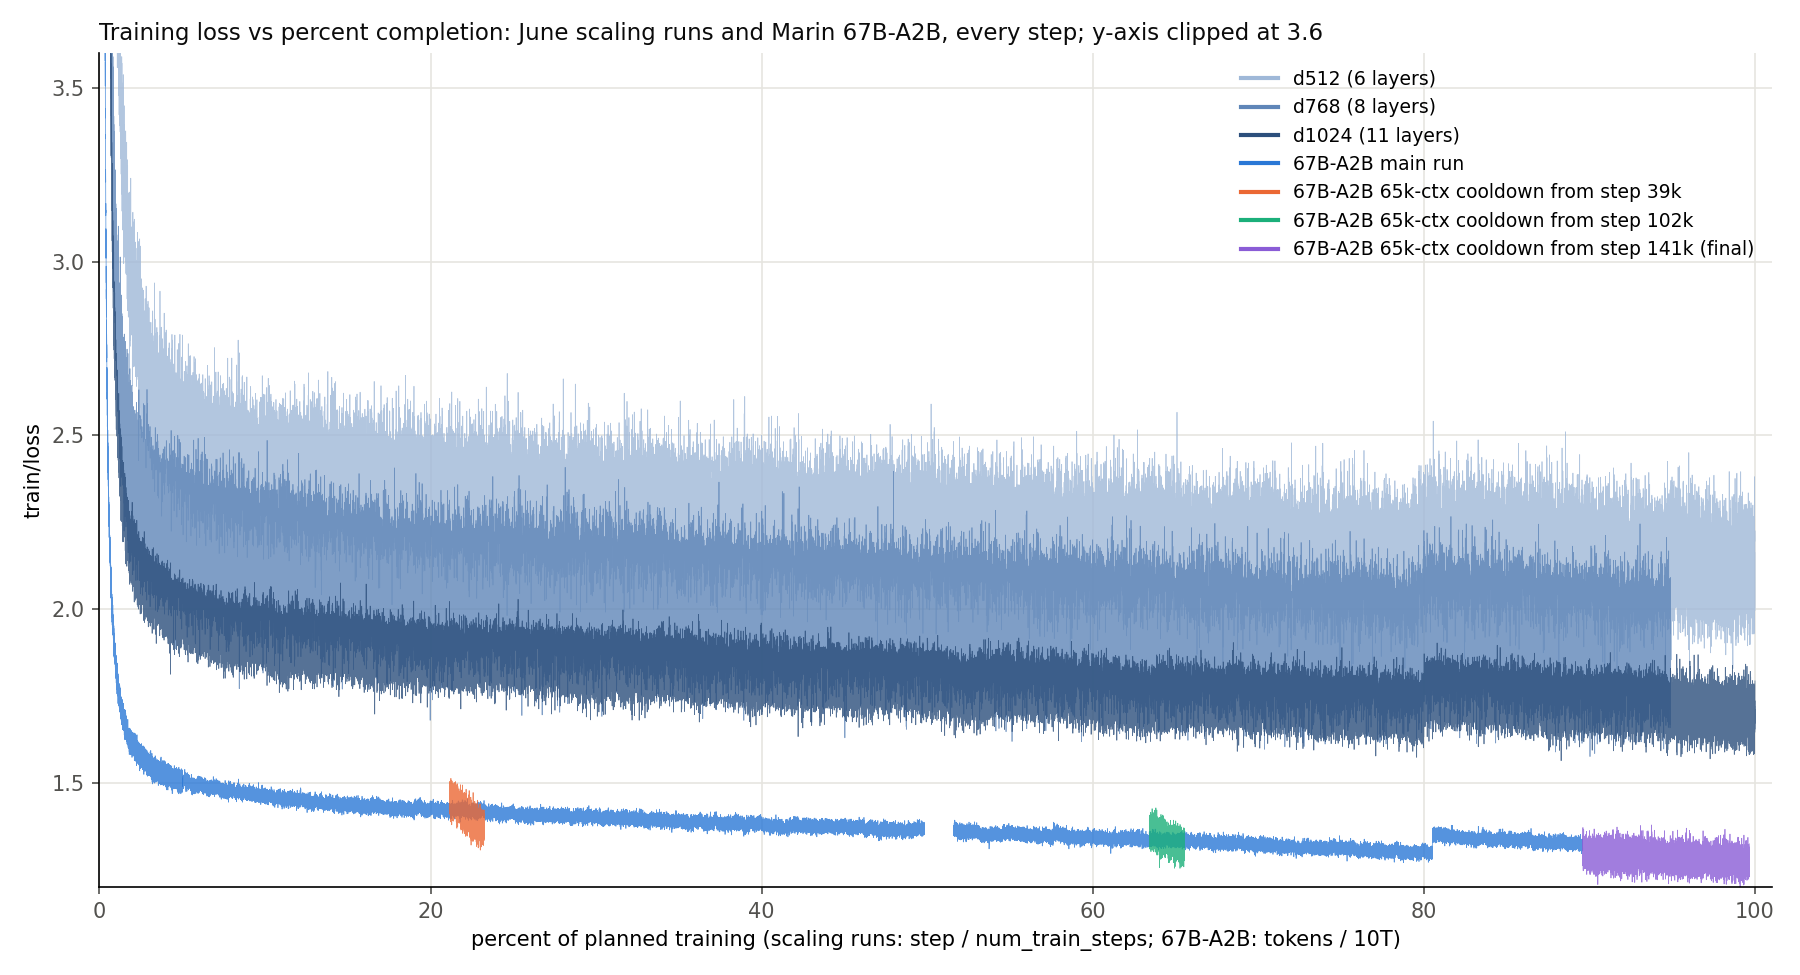
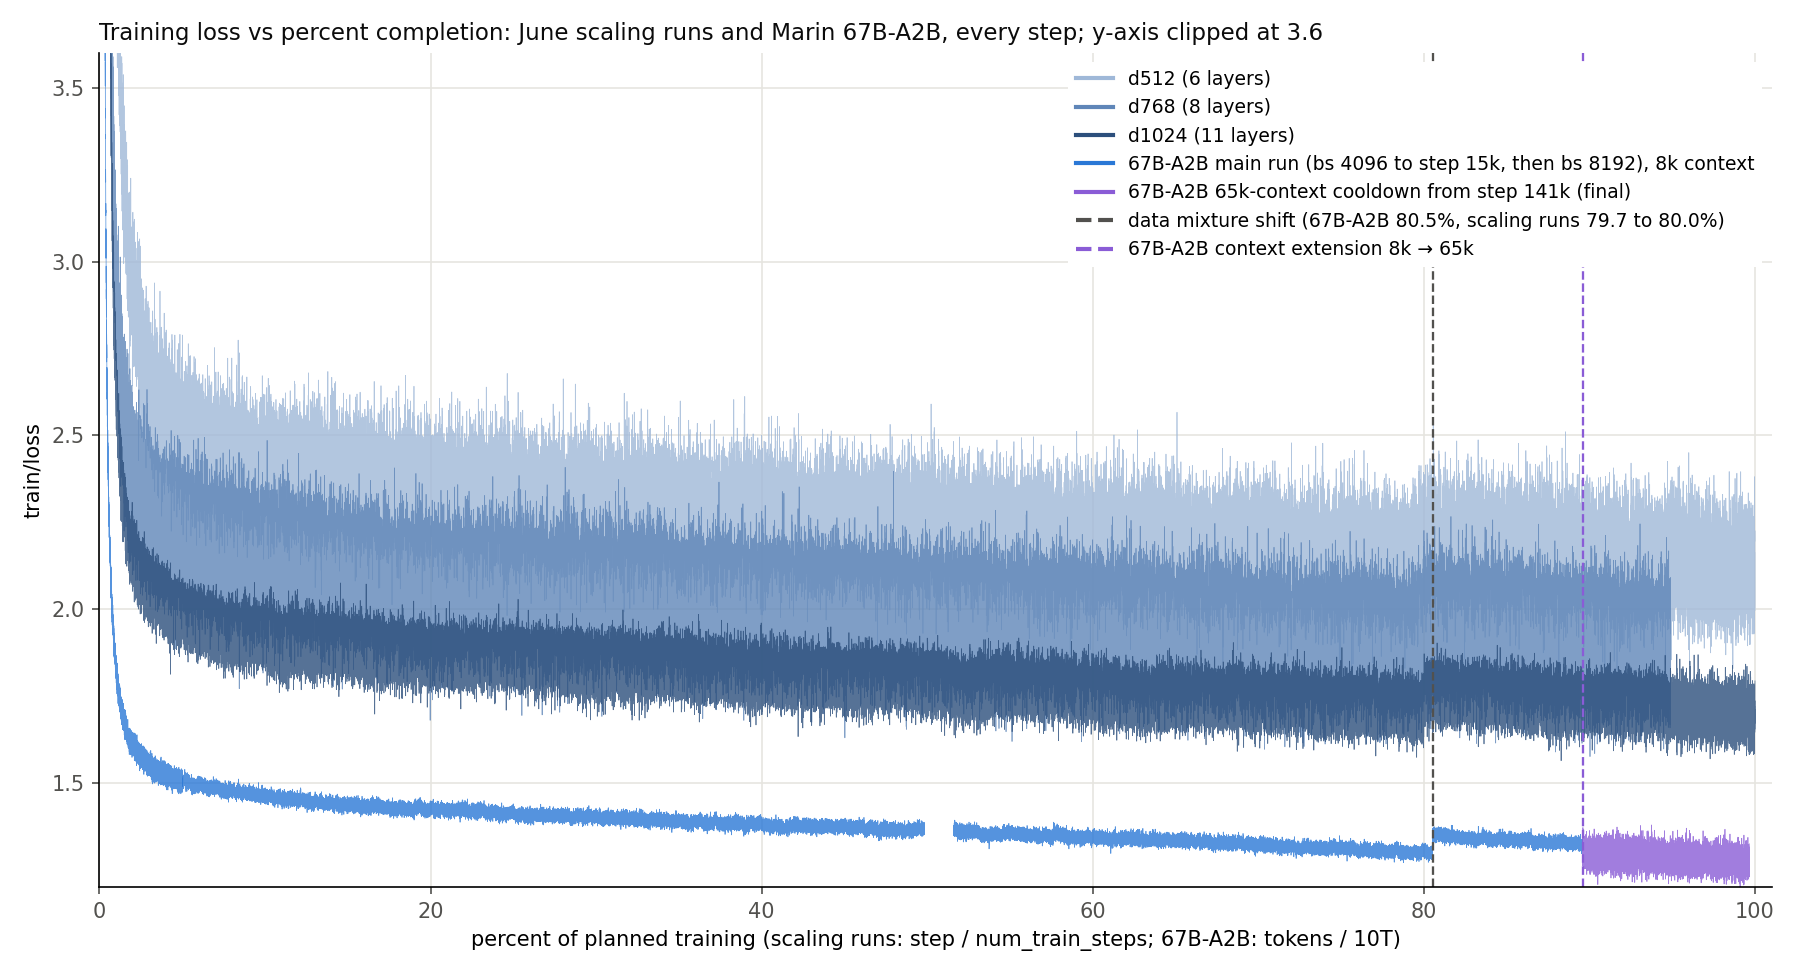
grug 67B-A2B loss plots: drop early cooldowns, mark mixture shift and context extension
Keeps only the final step-141k 65k-context cooldown and draws dashed vertical
lines at the scheduled data-mixture change (second train_weights stage, read
from the W&B config) and at the 8k to 65k context extension.

Changed region(s): [[0.5911, 0.0615, 0.9956, 0.2769], [0.6222, 0.8308, 0.6844, 0.8923], [0.2489, 0.8, 0.28, 0.8615]]

diff --git a/experiments/grug/moe/plot_67b_a2b_training_loss.py b/experiments/grug/moe/plot_67b_a2b_training_loss.py
@@ -6,14 +6,15 @@
 Writes two figures:
 
 - ``<out_dir>/67b_a2b_train_loss_tokens.png``: the 67B-A2B lineage (4096-batch start, 8192-batch resume, and the
-  three 65k-context cooldowns) against tokens seen.
+  final 65k-context cooldown from step 141k) against tokens seen.
 - ``<out_dir>/67b_a2b_train_loss_vs_scaling_completion.png``: the same lineage plus the d512/d768/d1024 scaling runs
   from the issue #6044 scaling fit, against percent of each run's planned training.
 
-Every logged step is plotted. The W&B API returns at most 10,000 history rows per query, so history is fetched in
-step ranges of ``_HISTORY_CHUNK``. Tokens per step are ``train_batch_size * max_seq_len`` from each run's W&B config
-(``train_batch_size`` may be a staged schedule), accumulated along the lineage: each run continues from its parent's
-token count at the step where it starts.
+Dashed vertical lines mark each run's scheduled data-mixture change (second ``train_weights`` stage) and the
+67B-A2B context extension from 8k to 65k. Every logged step is plotted. The W&B API returns at most 10,000 history
+rows per query, so history is fetched in step ranges of ``_HISTORY_CHUNK``. Tokens per step are
+``train_batch_size * max_seq_len`` from each run's W&B config (``train_batch_size`` may be a staged schedule),
+accumulated along the lineage: each run continues from its parent's token count at the step where it starts.
 
 Run::
 
@@ -49,34 +50,14 @@ class Segment:
     end_step: int | None = None
 
 
+_MAIN_BS4096 = "moe_67b_a2b_d2560_ep1_rep16_bs4096_seq8192_sw2k_v4_2048_muon_10T"
+_MAIN_BS8192 = "moe_67b_a2b_d2560_ep1_rep8_bs8192_seq8192_sw2k_v4_2048_muon_resume15k_v2_10T"
+_FINAL_COOLDOWN = "moe_67b_a2b_d2560_ep1_rep8_bs1024_seq65536_sw2k_v4_2048_muon_cooldown_step141k"
+MAIN_COLOR, LONG_CONTEXT_COLOR, EVENT_COLOR = "#2a78d6", "#8a5cd6", "#52514e"
 LINEAGE = (
-    Segment(
-        "moe_67b_a2b_d2560_ep1_rep16_bs4096_seq8192_sw2k_v4_2048_muon_10T", "main, bs 4096", "#2a78d6", None, 15_000
-    ),
-    Segment(
-        "moe_67b_a2b_d2560_ep1_rep8_bs8192_seq8192_sw2k_v4_2048_muon_resume15k_v2_10T",
-        "main, bs 8192 (from step 15k)",
-        "#2a78d6",
-        "moe_67b_a2b_d2560_ep1_rep16_bs4096_seq8192_sw2k_v4_2048_muon_10T",
-    ),
-    Segment(
-        "moe_67b_a2b_d2560_ep1_rep8_bs1024_seq65536_sw2k_v4_2048_muon_cooldown_step39k",
-        "65k-ctx cooldown from step 39k",
-        "#eb6834",
-        "moe_67b_a2b_d2560_ep1_rep8_bs8192_seq8192_sw2k_v4_2048_muon_resume15k_v2_10T",
-    ),
-    Segment(
-        "moe_67b_a2b_d2560_ep1_rep8_bs1024_seq65536_sw2k_v4_2048_muon_cooldown_step102k",
-        "65k-ctx cooldown from step 102k",
-        "#1baf7a",
-        "moe_67b_a2b_d2560_ep1_rep8_bs8192_seq8192_sw2k_v4_2048_muon_resume15k_v2_10T",
-    ),
-    Segment(
-        "moe_67b_a2b_d2560_ep1_rep8_bs1024_seq65536_sw2k_v4_2048_muon_cooldown_step141k",
-        "65k-ctx cooldown from step 141k (final)",
-        "#8a5cd6",
-        "moe_67b_a2b_d2560_ep1_rep8_bs8192_seq8192_sw2k_v4_2048_muon_resume15k_v2_10T",
-    ),
+    Segment(_MAIN_BS4096, "main run (bs 4096 to step 15k, then bs 8192), 8k context", MAIN_COLOR, None, 15_000),
+    Segment(_MAIN_BS8192, "main run, bs 8192", MAIN_COLOR, _MAIN_BS4096, 141_000),
+    Segment(_FINAL_COOLDOWN, "65k-context cooldown from step 141k (final)", LONG_CONTEXT_COLOR, _MAIN_BS8192),
 )
 # (run id, label, color) for the scaling-fit anchors in
 # https://github.com/marin-community/marin/issues/6044#issuecomment-4819900707
@@ -88,6 +69,15 @@ SCALING_RUNS = (
 # (steps, x values, losses) for one plotted run.
 Curve = tuple[np.ndarray, np.ndarray, np.ndarray]
 INK, MUTED, GRID = "#0b0b0b", "#52514e", "#e6e5e0"
+
+
+@dataclass(frozen=True)
+class Event:
+    """A vertical dashed marker at a point in training, in the x units of the plot it is drawn on."""
+
+    x: float
+    label: str
+    color: str
 
 
 def loss_history(run: wandb.apis.public.Run) -> tuple[np.ndarray, np.ndarray]:
@@ -142,6 +132,28 @@ def lineage_tokens(api: wandb.Api) -> dict[str, Curve]:
     return out
 
 
+def mix_shift_step(run: wandb.apis.public.Run) -> int:
+    """First step of the second ``train_weights`` stage (the scheduled data-mixture change)."""
+    stages = run.config["data"]["train_weights"]
+    assert len(stages) == 2, f"{run.id}: expected two mixture stages, got {[start for start, _ in stages]}"
+    return stages[1][0]
+
+
+def lineage_events(api: wandb.Api, lineage: dict[str, Curve]) -> tuple[float, float]:
+    """Tokens seen at the 67B-A2B data-mixture change and at the start of the 65k-context cooldown."""
+    steps, tokens, _ = lineage[_MAIN_BS8192]
+    mix_tokens = float(np.interp(mix_shift_step(api.run(f"{WANDB_PROJECT}/{_MAIN_BS8192}")), steps, tokens))
+    _, cooldown_tokens, _ = lineage[_FINAL_COOLDOWN]
+    # Tokens seen before the first cooldown step: the cumulative count minus that step's own batch.
+    context_tokens = float(cooldown_tokens[0] - (cooldown_tokens[1] - cooldown_tokens[0]))
+    return mix_tokens, context_tokens
+
+
+def _draw_events(ax: plt.Axes, events: list[Event]) -> None:
+    for event in events:
+        ax.axvline(event.x, color=event.color, linestyle="--", linewidth=1.1, label=event.label)
+
+
 def _break_gaps(steps: np.ndarray, x: np.ndarray, loss: np.ndarray) -> tuple[np.ndarray, np.ndarray]:
     """Insert NaN after each logging gap longer than ``_MAX_STEP_GAP`` steps so the line is not drawn across it."""
     cut = np.flatnonzero(np.diff(steps) > _MAX_STEP_GAP) + 1
@@ -156,11 +168,11 @@ def _style(ax: plt.Axes) -> None:
     ax.tick_params(colors=MUTED)
 
 
-def plot_tokens(lineage: dict[str, Curve], path: str) -> None:
+def plot_tokens(lineage: dict[str, Curve], events: tuple[float, float], path: str) -> None:
     fig, ax = plt.subplots(figsize=(12, 6.5))
     for seg in LINEAGE:
         steps, tokens, loss = lineage[seg.run_id]
-        label = None if seg.run_id == LINEAGE[0].run_id else seg.label
+        label = None if seg.run_id == _MAIN_BS8192 else seg.label
         ax.plot(
             *_break_gaps(steps, tokens / 1e12, loss),
             color=seg.color,
@@ -169,14 +181,22 @@ def plot_tokens(lineage: dict[str, Curve], path: str) -> None:
             label=label,
             rasterized=True,
         )
+    mix_tokens, context_tokens = events
+    _draw_events(
+        ax,
+        [
+            Event(mix_tokens / 1e12, f"data mixture shift ({mix_tokens / 1e12:.2f}T)", EVENT_COLOR),
+            Event(
+                context_tokens / 1e12, f"context extension 8k → 65k ({context_tokens / 1e12:.2f}T)", LONG_CONTEXT_COLOR
+            ),
+        ],
+    )
     ax.set_xlabel("tokens seen (T)")
     ax.set_ylabel(LOSS_KEY)
     ax.set_ylim(1.2, 2.0)
     ax.set_xlim(0, 10.2)
     _style(ax)
-    handles, labels = ax.get_legend_handles_labels()
-    labels[0] = "main run (bs 4096 to step 15k, then bs 8192)"
-    ax.legend(handles, labels, frameon=False, loc="upper right")
+    ax.legend(loc="upper right", facecolor="white", edgecolor="none", framealpha=1)
     for line in ax.get_legend().get_lines():
         line.set_linewidth(2)
         line.set_alpha(1)
@@ -190,12 +210,14 @@ def plot_tokens(lineage: dict[str, Curve], path: str) -> None:
     fig.savefig(path, dpi=150, facecolor="white")
 
 
-def plot_completion(api: wandb.Api, lineage: dict[str, Curve], path: str) -> None:
+def plot_completion(api: wandb.Api, lineage: dict[str, Curve], events: tuple[float, float], path: str) -> None:
     fig, ax = plt.subplots(figsize=(12, 6.5))
+    mix_shifts = []
     for run_id, label, color in SCALING_RUNS:
         run = api.run(f"{WANDB_PROJECT}/{run_id}")
         steps, loss = loss_history(run)
         total = run.config["trainer"]["trainer"]["num_train_steps"]
+        mix_shifts.append(100 * mix_shift_step(run) / total)
         ax.plot(
             *_break_gaps(steps, 100 * steps / total, loss),
             color=color,
@@ -206,7 +228,7 @@ def plot_completion(api: wandb.Api, lineage: dict[str, Curve], path: str) -> Non
         )
     for seg in LINEAGE:
         steps, tokens, loss = lineage[seg.run_id]
-        label = None if seg.run_id == LINEAGE[0].run_id else f"67B-A2B {seg.label}"
+        label = None if seg.run_id == _MAIN_BS8192 else f"67B-A2B {seg.label}"
         ax.plot(
             *_break_gaps(steps, 100 * tokens / TARGET_TOKENS, loss),
             color=seg.color,
@@ -215,14 +237,26 @@ def plot_completion(api: wandb.Api, lineage: dict[str, Curve], path: str) -> Non
             label=label,
             rasterized=True,
         )
+    mix_tokens, context_tokens = events
+    _draw_events(
+        ax,
+        [
+            Event(
+                100 * mix_tokens / TARGET_TOKENS,
+                "data mixture shift (67B-A2B "
+                f"{100 * mix_tokens / TARGET_TOKENS:.1f}%, scaling runs "
+                f"{min(mix_shifts):.1f} to {max(mix_shifts):.1f}%)",
+                EVENT_COLOR,
+            ),
+            Event(100 * context_tokens / TARGET_TOKENS, "67B-A2B context extension 8k → 65k", LONG_CONTEXT_COLOR),
+        ],
+    )
     ax.set_xlabel("percent of planned training (scaling runs: step / num_train_steps; 67B-A2B: tokens / 10T)")
     ax.set_ylabel(LOSS_KEY)
     ax.set_ylim(1.2, 3.6)
     ax.set_xlim(0, 101)
     _style(ax)
-    handles, labels = ax.get_legend_handles_labels()
-    labels[len(SCALING_RUNS)] = "67B-A2B main run"
-    ax.legend(handles, labels, frameon=False, loc="upper right", fontsize=9)
+    ax.legend(loc="upper right", fontsize=9, facecolor="white", edgecolor="none", framealpha=1)
     for line in ax.get_legend().get_lines():
         line.set_linewidth(2)
         line.set_alpha(1)
@@ -240,5 +274,6 @@ if __name__ == "__main__":
     out_dir = sys.argv[1]
     api = wandb.Api(timeout=300)
     lineage = lineage_tokens(api)
-    plot_tokens(lineage, f"{out_dir}/67b_a2b_train_loss_tokens.png")
-    plot_completion(api, lineage, f"{out_dir}/67b_a2b_train_loss_vs_scaling_completion.png")
+    events = lineage_events(api, lineage)
+    plot_tokens(lineage, events, f"{out_dir}/67b_a2b_train_loss_tokens.png")
+    plot_completion(api, lineage, events, f"{out_dir}/67b_a2b_train_loss_vs_scaling_completion.png")
